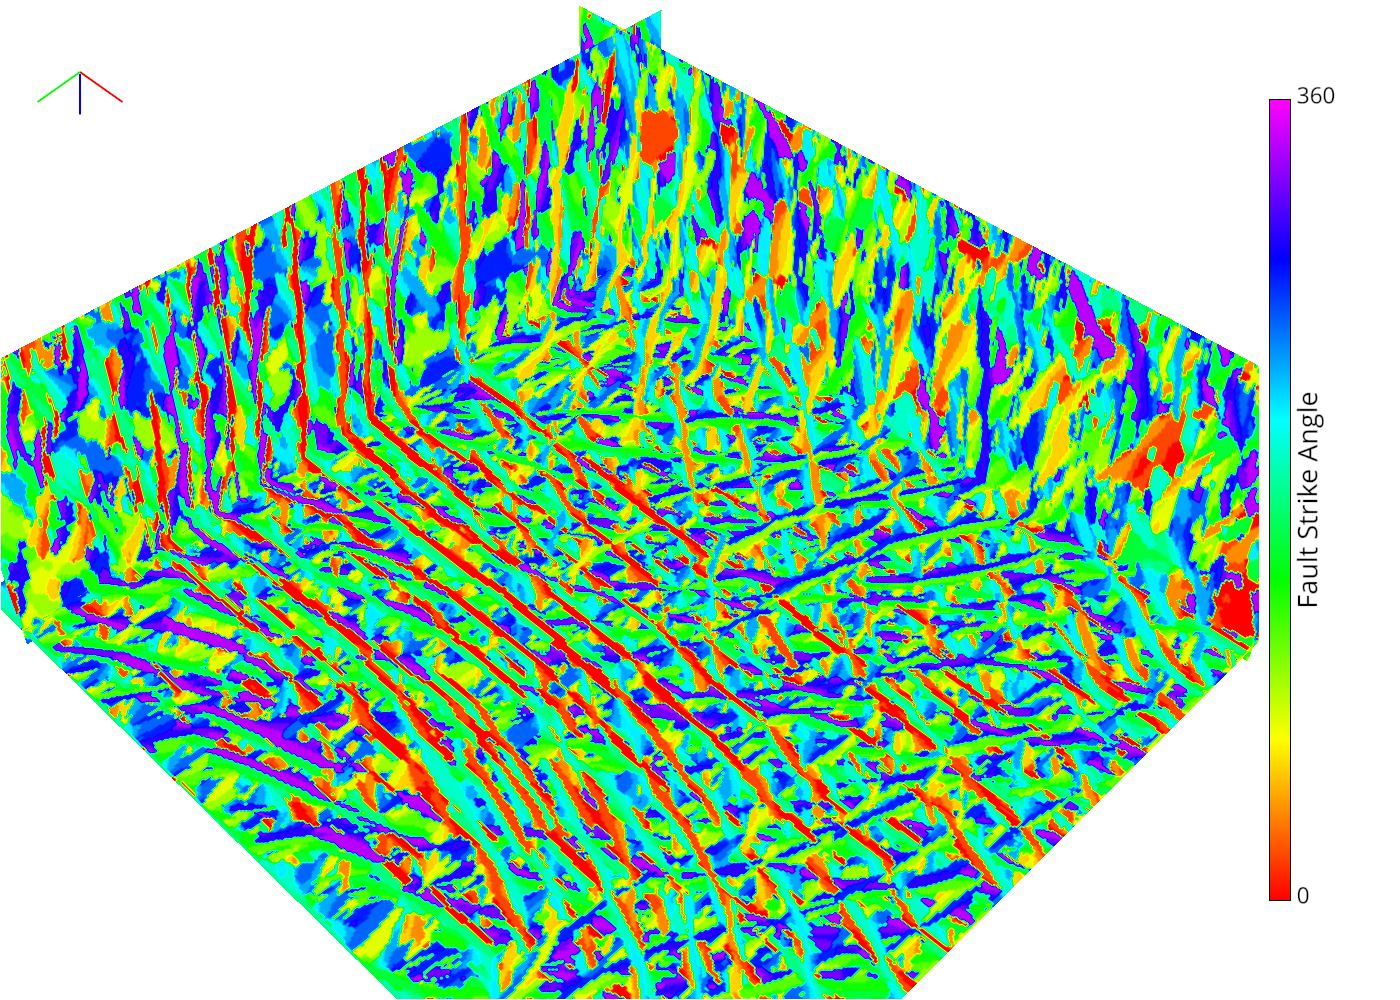
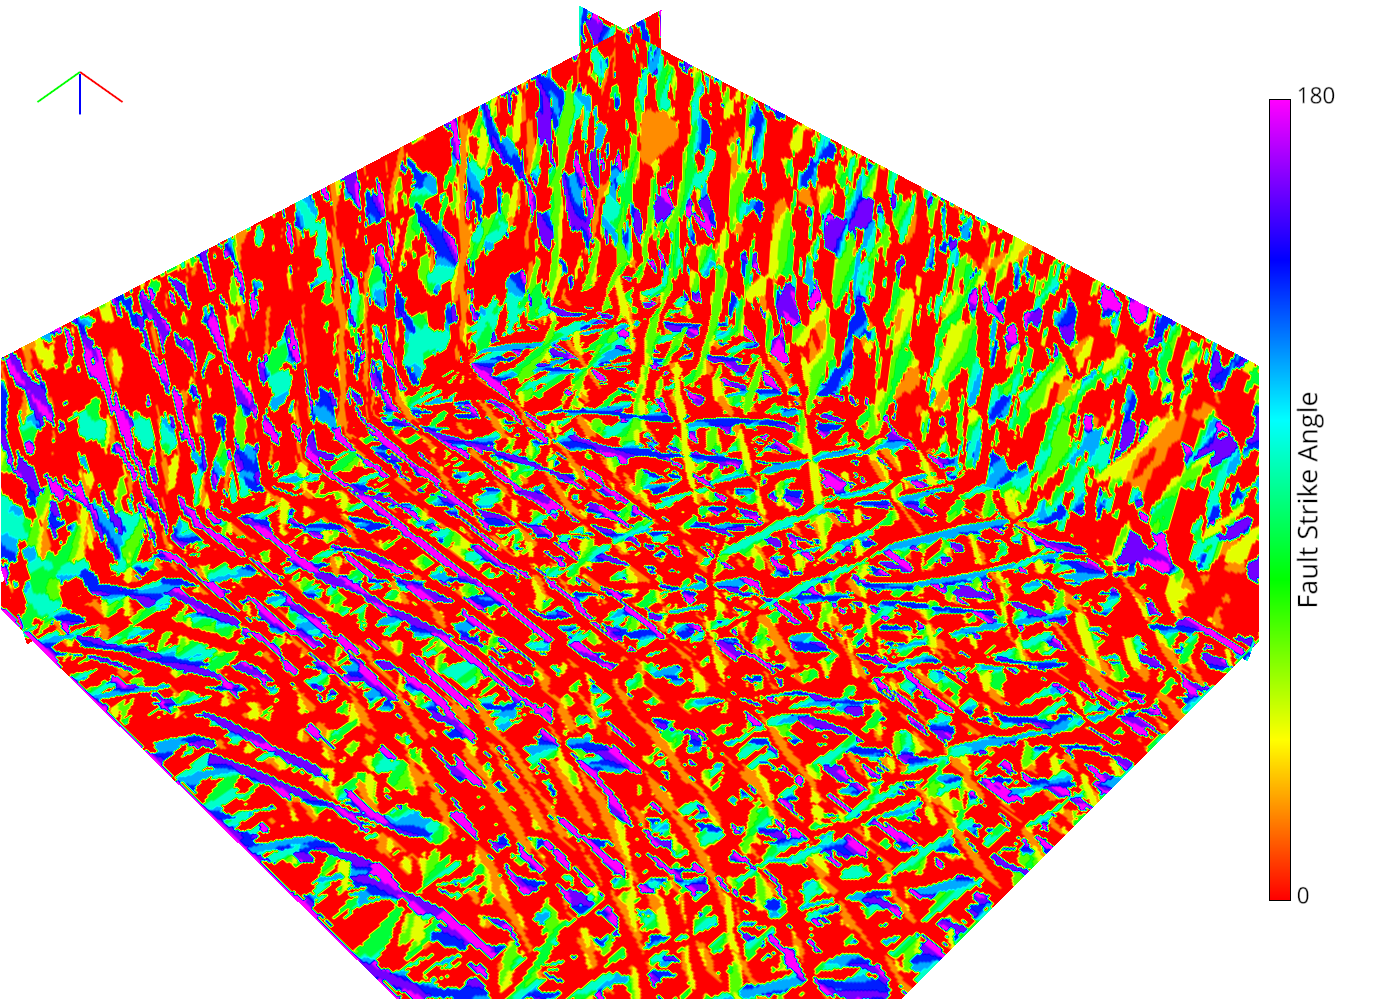
Fault surfaces demo; optimized osv_read_skin performance.

diff --git a/osv_read_skin.py b/osv_read_skin.py
@@ -17,17 +17,18 @@
 Surface Voting': https://github.com/xinwucwp/osv.
 """
 
+from struct import unpack, calcsize
 import numpy as np
 
 
 class FaultCell(object):
   """ A class that contains fault attribute on each fault pixel,
   including pos (x,y,z), likelihood, strike and dip angle,
-  slip vector(s1,s2,s3).
-  Each object also can include its neighboring cell index, (above,
-  below, left, right).
+  slip vector(sx,sy,sz).
+  Each object also can include its neighboring cell, (above, below,
+  left, right).
   """
-  def __init__(self, pos=(0,0,0), likelihood=0.,
+  def __init__(self, index, pos=(0,0,0), likelihood=0.,
                strike=0., dip=0., slip=(0.,0.,0.)):
     self.pos = pos
     self.likelihood = likelihood
@@ -35,11 +36,35 @@ class FaultCell(object):
     self.dip = dip
     self.slip = slip
 
-    # The index of neighboring cells.
+    # The index in the cell list of a skin.
+    self.index = index
+
+    # The neighboring cells.
     self.above = None
     self.below = None
     self.left = None
     self.right = None
+
+  def smooth_strike(self):
+    """ Smooth the strike angle value using neighboring cells.
+    """
+    L = self.left; R = self.right
+    L_strike = 0.; R_strike = 0.
+    scs = 0. # not sure what it means ...
+    if L is not None:
+      dy = self.pos[1] - L.pos[1]
+      dx = self.pos[0] - L.pos[0]
+      ds = np.sqrt(dy**2 + dx**2)
+      L_strike = np.degrees(np.arccos(dx / ds))
+      scs += 1
+    if R is not None:
+      dy = -self.pos[1] + R.pos[1]
+      dx = -self.pos[0] + R.pos[0]
+      ds = np.sqrt(dy**2 + dx**2)
+      R_strike = np.degrees(np.arccos(dx / ds))
+      scs += 1
+    if scs > 0:
+      self.strike = (L_strike + R_strike) / scs
 
 
 class FaultSkin(object):
@@ -52,36 +77,51 @@ class FaultSkin(object):
   def __init__(self, filename):
     self.f = open(filename, 'br')
 
-    num_cells = self._read_int()
+    num_cells = unpack('>i', self.f.read(calcsize('>i')))[0]
+
+    # Read all cell parameters in chunk.
+    fmt = '>{:d}f'.format(9 * num_cells) # 9 floats per cell
+    cell_params = unpack(fmt, self.f.read(calcsize(fmt)))
+
     # Build a list of all cells included.
     self.cells = []
     for i in range(num_cells):
-      pos = (self._read_float(), self._read_float(), self._read_float())
-      likelihood = self._read_float()
-      strike = self._read_float()
-      dip = self._read_float()
-      slip = (self._read_float(), self._read_float(), self._read_float())
+      param = cell_params[9*i: 9*(i+1)]
+      pos = (param[2], param[1], param[0]) # reverse the zyx order to xyz
+      likelihood = param[3]
+      strike = param[4]
+      dip = param[5]
+      slip = (param[8], param[7], param[6]) # reverse the zyx order to xyz
 
-      cell = FaultCell(pos=pos, likelihood=likelihood,
+      cell = FaultCell(i, pos=pos, likelihood=likelihood,
                        strike=strike, dip=dip, slip=slip)
       self.cells.append(cell)
 
+    # Read cell neighbor indexes in chunk.
+    fmt = '>{:d}i'.format(4 * num_cells) # 4 neighbor indexes per cell
+    cell_neighbors = unpack(fmt, self.f.read(calcsize(fmt)))
+
     # Get the neighboring cell index for each cell.
     for i in range(num_cells):
-      above = self._read_int()
-      if above<0: above = None
-      below = self._read_int()
-      if below<0: below = None
-      left = self._read_int()
-      if left<0: left = None
-      right = self._read_int()
-      if right<0: right = None
-      self.cells[i].above = above
-      self.cells[i].below = below
-      self.cells[i].left = left
-      self.cells[i].right = right
+      neighbor = cell_neighbors[4*i: 4*(i+1)]
+      # Neighbor above current cell.
+      if neighbor[0] < 0: self.cells[i].above = None
+      else: self.cells[i].above = self.cells[neighbor[0]]
+      # Neighbor below current cell.
+      if neighbor[1] < 0: self.cells[i].below = None
+      else: self.cells[i].below = self.cells[neighbor[1]]
+      # Neighbor to the left of current cell.
+      if neighbor[2] < 0: self.cells[i].left = None
+      else: self.cells[i].left = self.cells[neighbor[2]]
+      # Neighbor to the right of current cell.
+      if neighbor[3] < 0: self.cells[i].right = None
+      else: self.cells[i].right = self.cells[neighbor[3]]
 
     self.f.close()
+
+    # Smooth the strike angle on the skin.
+    for cell in self.cells:
+      cell.smooth_strike()
 
   def get_vertices_and_faces(self):
     """ Get an array of vertices corresponding to an indexed triangle mesh.
@@ -96,22 +136,22 @@ class FaultSkin(object):
     faces = []
     for i, cell in enumerate(self.cells):
       # Get the FaultCell to the right of current cell.
-      if cell.right is not None: R = self.cells[cell.right]
-      else: R = None
+      R = cell.right
+      if R is not None: RB = R.below
       # Get the FaultCell below the current cell.
-      if cell.below is not None: B = self.cells[cell.below]
-      else: B = None
+      B = cell.below
+      if B is not None: BR = B.right
 
       # First triangle: 0 - 2
       #                   \ |
       #                     1, facing outwards.
-      if R is not None and R.below is not None:
-        faces.append([i, R.below, cell.right])
+      if R and RB:
+        faces.append([i, RB.index, R.index])
       # Second triangle: 0
       #                  | \
       #                  1 - 2, also facing outwards.
-      if B is not None and B.right is not None:
-        faces.append([i, cell.below, B.right])
+      if B and BR:
+        faces.append([i, B.index, BR.index])
     faces = np.array(faces).astype(int)
 
     return vertices, faces

diff --git a/osv_F3_demo.py b/osv_F3_demo.py
@@ -17,11 +17,14 @@
 'Optimal Surface Voting': https://github.com/xinwucwp/osv.
 """
 
+import os
 import numpy as np
 from vispy import app
-from vispy.color import get_colormap, Colormap
+from vispy.color import get_colormap, Colormap, Color
+from vispy.scene.visuals import Mesh
 
 from seismic_canvas import (SeismicCanvas, volume_slices, XYZAxis, Colorbar)
+from osv_read_skin import FaultSkin
 
 
 if __name__ == '__main__':
@@ -92,15 +95,23 @@ if __name__ == '__main__':
                           **canvas_params)
 
 
-  # Image 3: thined fault strike angle.
+  # Image 3: fault strike angle.
   strike_vol = np.memmap('./F3_strike.dat', dtype='>f4',
                          mode='r', shape=volume_shape)
 
   strike_cmap = 'hsl'
-  strike_range = (0, 360)
+  strike_range = (0, 180)
+
+  # Use preprocess function to warp strike angles in range 0 ~ 180 degrees.
+  def strike_warp(strike):
+    warped = strike.copy()
+    warp_index = np.where(strike > 180)
+    warped[warp_index] = 180 - warped[warp_index]
+    return warped
 
   visual_nodes = volume_slices(strike_vol,
     cmaps=strike_cmap, clims=strike_range,
+    preproc_funcs=strike_warp,
     interpolation='bilinear', **slicing)
   xyz_axis = XYZAxis()
   colorbar = Colorbar(cmap=strike_cmap, clim=strike_range,
@@ -140,7 +151,53 @@ if __name__ == '__main__':
                           **canvas_params)
 
 
-  # Image 5: seismic overlaid by fault likelihood.
+  # Image 5: seismic with fault skin surfaces (meshes).
+  fault_surfaces = []
+  fault_cmap = 'hsl'
+  fault_range = (0, 180)
+
+  # Read from skin files using FaultSkin class.
+  skin_dir = './F3_fault_skins'
+  for filename in os.listdir(skin_dir):
+    if filename.startswith('skin') and filename.endswith('.dat'):
+      skin = FaultSkin(os.path.join(skin_dir, filename))
+      verts, faces = skin.get_vertices_and_faces()
+      # Convert to seismic coord system.
+      verts[:, 1] = volume_shape[1] - verts[:, 1]
+      verts[:, 2] = volume_shape[2] - verts[:, 2]
+
+      strikes = np.zeros(verts.shape[0])
+      for i, cell in enumerate(skin.cells):
+        strike = cell.strike
+        if strike > 180: strike = 360 - strike
+        strikes[i] = strike
+
+      fault_surface = Mesh(verts, faces,
+        vertex_values=strikes, shading='smooth')
+      fault_surface.cmap = fault_cmap
+      fault_surface.clim = fault_range
+      fault_surface.shininess = 0.01
+      fault_surface.ambient_light_color = Color([.2, .2, .2, 1])
+      fault_surface.light_dir = (5, -10, 5)
+      fault_surfaces.append(fault_surface)
+
+  visual_nodes = volume_slices(seismic_vol,
+    cmaps=seismic_cmap,
+    clims=seismic_range,
+    interpolation='bilinear', **slicing)
+  xyz_axis = XYZAxis()
+  colorbar = Colorbar(cmap=fault_cmap, clim=fault_range,
+                      label_str='Fault Strike Angle', size=colorbar_size)
+
+  visual_nodes += fault_surfaces
+  canvas5 = SeismicCanvas(title='Fault Surfaces',
+                          visual_nodes=visual_nodes,
+                          xyz_axis=xyz_axis,
+                          colorbar=colorbar,
+                          **canvas_params)
+
+
+  # Image 6: seismic overlaid by fault likelihood.
   likelihood_vol = np.memmap('./F3_likelihood.dat', dtype='>f4',
                              mode='r', shape=volume_shape)
 
@@ -163,7 +220,7 @@ if __name__ == '__main__':
 
   dark_canvas_params = canvas_params
   dark_canvas_params['bgcolor'] = (.1, .1, .1, 1) # dark background
-  canvas5 = SeismicCanvas(title='Fault Likelihood',
+  canvas6 = SeismicCanvas(title='Fault Likelihood',
                           visual_nodes=visual_nodes,
                           xyz_axis=xyz_axis,
                           colorbar=colorbar,

diff --git a/README.md b/README.md
@@ -65,5 +65,7 @@ Also try [`osv_F3_demo.py`](./osv_F3_demo.py) to check out the results from this
 <img src='./imgs/Fault Semblance.png' alt='Fault Semblance' width=640/>
 <img src='./imgs/Fault Strike Angle.png' alt='Fault Strike Angle' width=640/>
 <img src='./imgs/Voting Scores.png' alt='Voting Scores' width=640/>
+Using triangle mesh surfaces to visualize `FaultSkin`s.
+<img src='./imgs/Fault Surfaces.png' alt='Fault Surfaces' width=640/>
 A dark themed example with a z-axis-up axis legend:
 <img src='./imgs/Fault Likelihood.png' alt='Fault Likelihood' width=640/>
